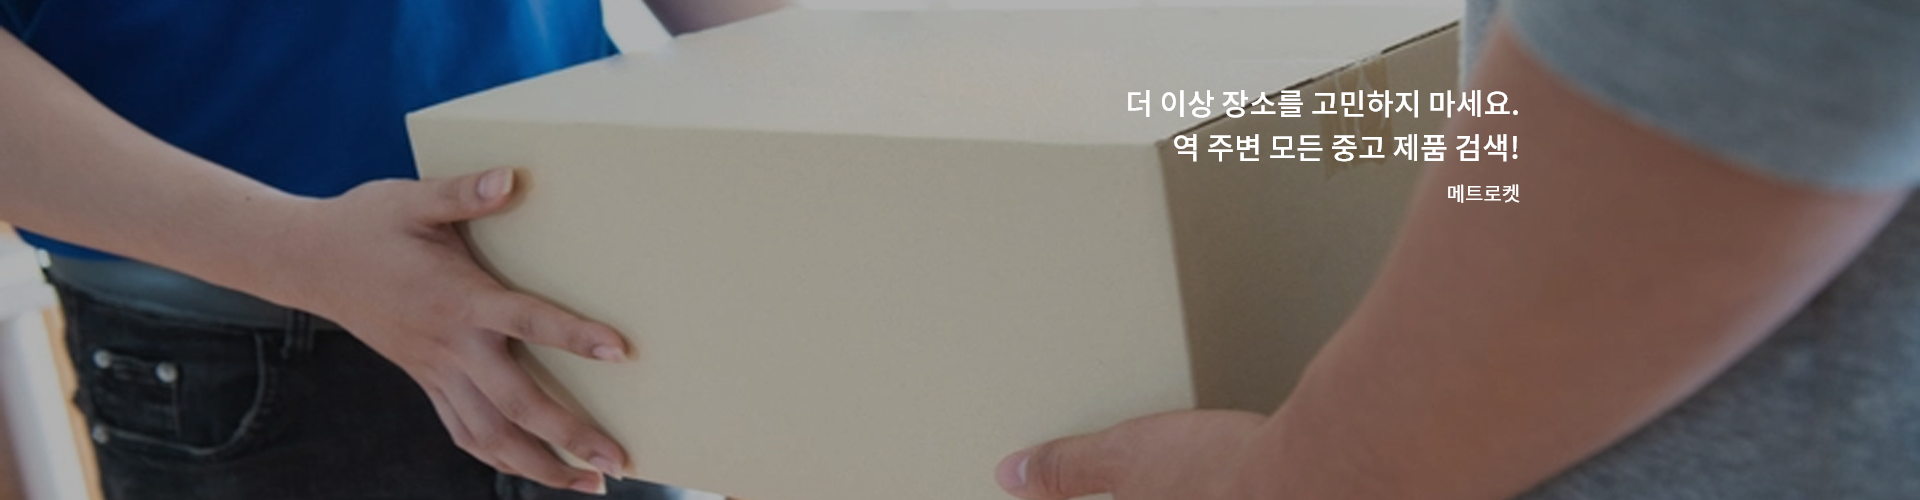
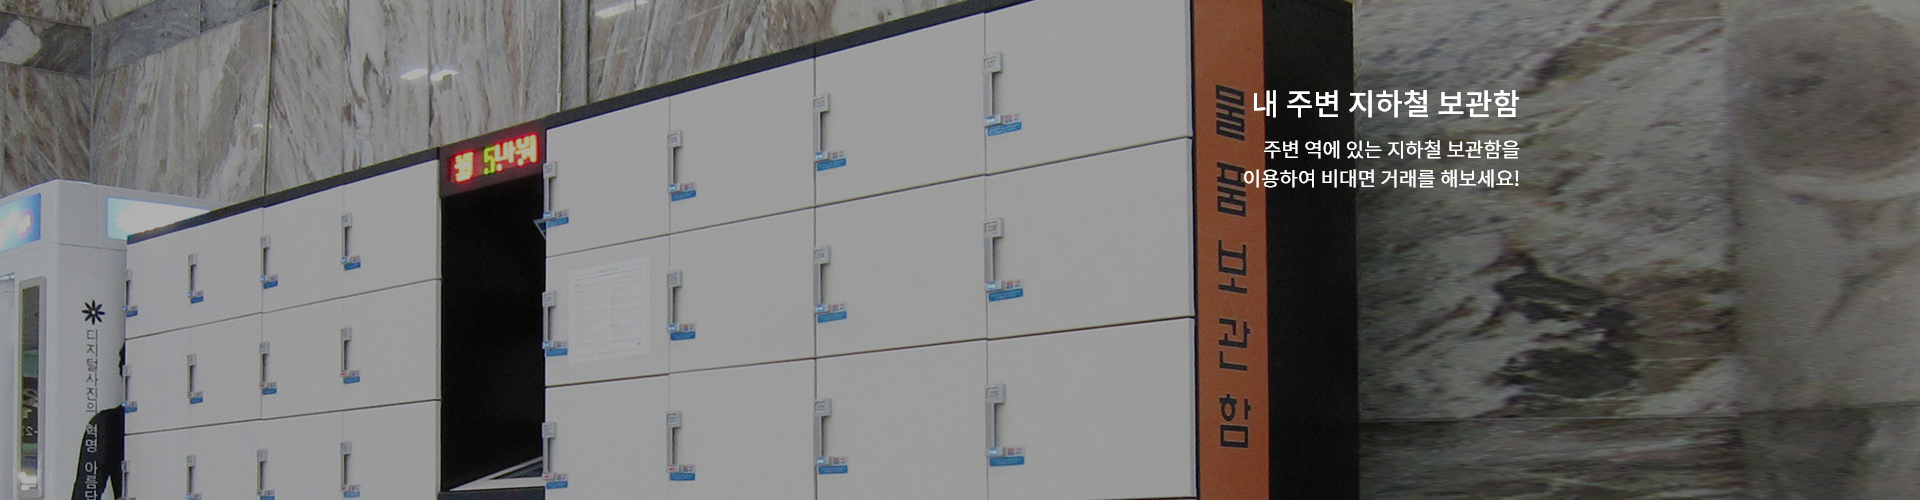
bxslider 수정

diff --git a/index.php b/index.php
@@ -50,10 +50,10 @@ require_once('modules/db.php');
     <!-- 메인 배너이미지 부분 -->
     <div id="bannerImg_box">
       <div class="bxslider">
+        <div><img src="img\slideimg_0.png" alt=""></div>
         <div><img src="img\slideimg_1.png" alt=""></div>
         <div><img src="img\slideimg_2.png" alt=""></div>
         <div><img src="img\slideimg_3.png" alt=""></div>
-        <div><img src="img\slideimg_4.png" alt=""></div>
       </div>
       <!-- 이중select box 로 지하철역 선택하는 부분 -->
         <form  id="selectMetro_box" action="searchProduct.php" method="get">
@@ -264,25 +264,30 @@ require_once('modules/db.php');
   </div>
   </body>
   <script>
+  var slider = $('.bxslider');
+  var slider_bx =null;
   const tapmenuItem = document.getElementsByClassName('tapmenuItem');
   $(document).ready(function(){
 
-    //슬라이드 이미지
-    $('.bxslider').bxSlider( {
-        mode: 'horizontal',// 가로 방향 수평 슬라이드
-        speed: 500,        // 이동 속도를 설정
-        pager: false,      // 현재 위치 페이징 표시 여부 설정
-        moveSlides: 1,     // 슬라이드 이동시 개수
-        auto: true,        // 자동 실행 여부
-        autoHover: false,   // 마우스 호버시 정지 여부
-        controls: true,    // 이전 다음 버튼 노출 여부
-        captions:true
-    });
+    setTimeout(function(e) {
+      slider_bx = slider.bxSlider( {
+          mode: 'horizontal',// 가로 방향 수평 슬라이드
+          speed: 500,        // 이동 속도를 설정
+          pager: false,      // 현재 위치 페이징 표시 여부 설정
+          moveSlides: 1,     // 슬라이드 이동시 개수
+          auto: true,        // 자동 실행 여부
+          autoHover: false,   // 마우스 호버시 정지 여부
+          controls: true,    // 이전 다음 버튼 노출 여부
+          captions:true,
+          adaptiveHeight:true
+      })
+    },1)
+
     load_category(tapmenuItem.item(0).innerText);
     // $(".owl-carousel").owlCarousel(obj);
 
 
-    changeSubBannerImge();                      // 768px 일때 사이트 소개이미지파일 다른해상도 파일로 변경
+    // 768px 일때 사이트 소개이미지파일 다른해상도 파일로 변경
     changeWidth_RecentProducts_gridbox(2);      // 최근상품 그리드박스 높이 정의
   });
 
@@ -467,22 +472,38 @@ require_once('modules/db.php');
     }
   }
 
+
+  function setAllBannerImage() {
+
+    if (w_width <= 768) {
+      for (var i = 0; i < bannerImg_box_img.length; i++) {
+        bannerImg_box_img.item(i).src = bannerImg_box_img.item(i).src.slice(0,-4) + "_m.png";
+      }
+    }else{
+
+    }
+
+  }
+  var check_M = 0;
   //768px 때 서브배너이미지 변경 (모바일용으로)
   function changeSubBannerImge() {
     var w_width = window.outerWidth;
-    bannerImg_box_img = document.querySelector('.bxslider').getElementsByTagName('img');
+    var bannerImg_box_img = document.querySelector('.bxslider').getElementsByTagName('img');
 
-    if (w_width <= 768) {
-      for (var i = 1; i <= 4; i++) {
-        bannerImg_box_img.item(i).src = "img/slideimg_" + i + "_m.png";
+    if (w_width <= 768 && check_M == 0) {
+      for (var i = 0; i < bannerImg_box_img.length; i++) {
+        bannerImg_box_img.item(i).src = bannerImg_box_img.item(i).src.slice(0,-4) + "_m.png";
+        check_M = 1;
       }
+
       //사이트 서브 배너 이미지
       document.getElementById('img01').src = "img/bannerImg_1_768x320.png";
       document.getElementById('img02').src = "img/bannerImg_2_768x320.png";
       document.getElementById('img03').src = "img/bannerImg_3_768x110.png";
-    }else{
-      for (var i = 1; i <= 4; i++) {
-        bannerImg_box_img.item(i).src = "img/slideimg_" + i + ".png";
+    }else if(check_M == 1){
+      for (var i = 0; i < bannerImg_box_img.length; i++) {
+        bannerImg_box_img.item(i).src = bannerImg_box_img.item(i).src.slice(0,-6) + ".png";
+        check_M =  0;
       }
       //사이트 서브 배너 이미지
       document.getElementById('img01').src = "img/bannerImg_1.png";
@@ -490,8 +511,9 @@ require_once('modules/db.php');
       document.getElementById('img03').src = "img/bannerImg_3.png";
     }
 
-
-
+    setTimeout(function(e) {
+      slider_bx.reloadSlider();
+    },1)
   }
 
   //더보기 버튼
@@ -520,16 +542,6 @@ require_once('modules/db.php');
         changeWidth_RecentProducts_gridbox(4);
       }
       changeSubBannerImge();
-      $('.bxslider').bxSlider( {
-          mode: 'horizontal',// 가로 방향 수평 슬라이드
-          speed: 500,        // 이동 속도를 설정
-          pager: false,      // 현재 위치 페이징 표시 여부 설정
-          moveSlides: 1,     // 슬라이드 이동시 개수
-          auto: true,        // 자동 실행 여부
-          autoHover: false,   // 마우스 호버시 정지 여부
-          controls: true,    // 이전 다음 버튼 노출 여부
-          captions:true
-      });
     }
 
 </script>

diff --git a/My_one_page.php b/My_one_page.php
@@ -15,9 +15,13 @@
 <link rel="stylesheet" href="css/css_noamlfont.css">
 <link rel="stylesheet" href="https://www.w3schools.com/w3css/4/w3.css">
 <link rel="stylesheet" href="https://cdnjs.cloudflare.com/ajax/libs/font-awesome/4.7.0/css/font-awesome.min.css">
-<script src="//code.jquery.com/jquery-3.2.1.min.js"></script>
 <link rel="stylesheet" href="css/css_metrocket_header.css">
 <link rel="stylesheet" href="css/css_metrocket_footer.css">
+<link rel="stylesheet" href="//code.jquery.com/ui/1.12.1/themes/base/jquery-ui.css">
+
+<script src="//code.jquery.com/jquery-3.2.1.min.js"></script>
+<script src="https://unpkg.com/hangul-js" type="text/javascript"></script>
+<script src="https://code.jquery.com/ui/1.12.1/jquery-ui.js"></script>
 
 <style>
 .click_box{
